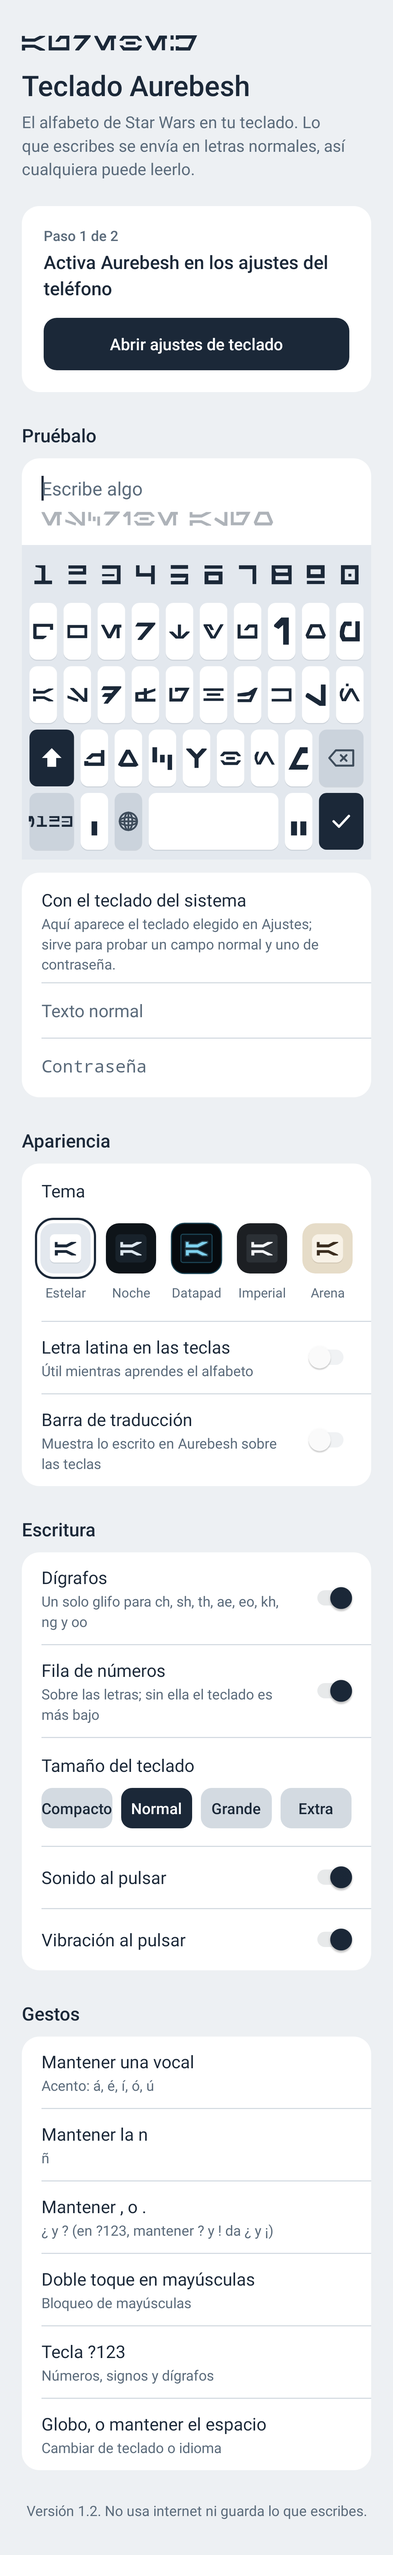
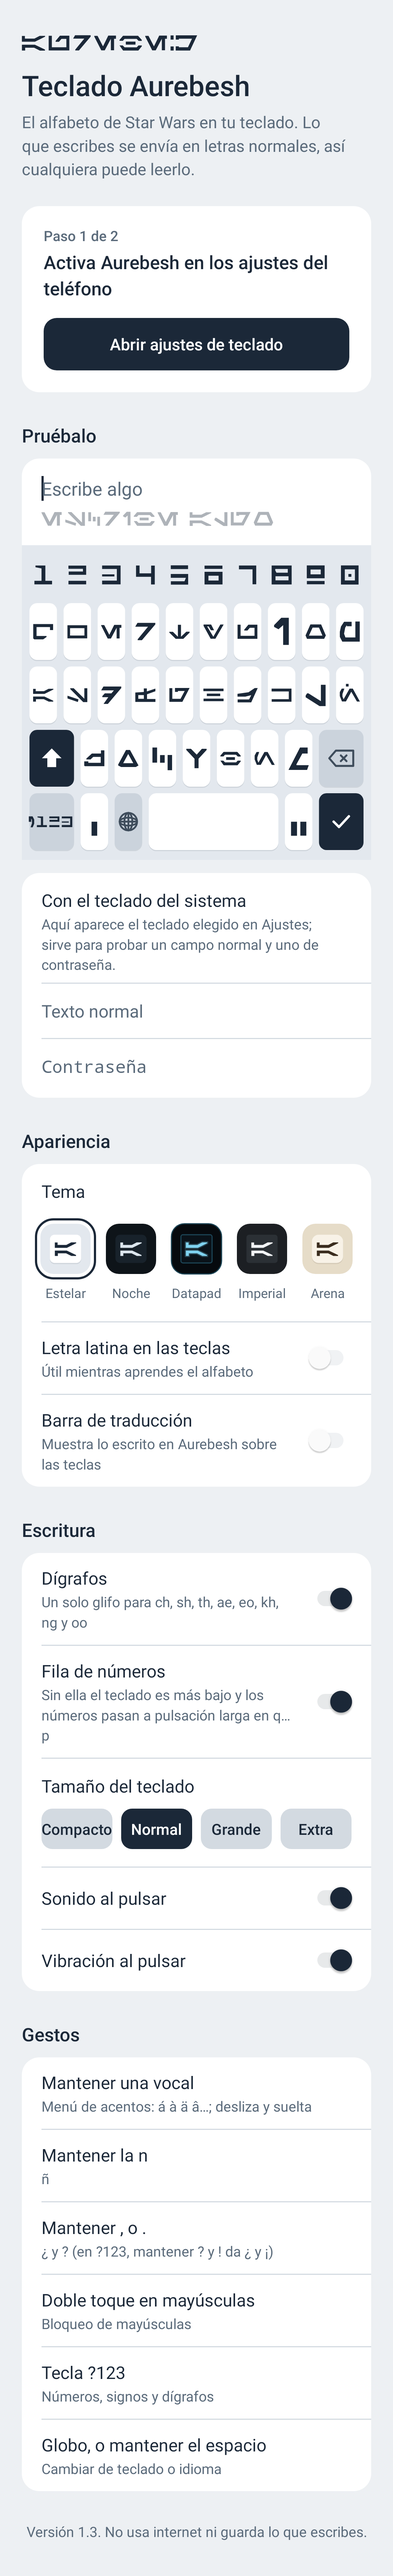
1.3: menú de alternativas deslizable y números ocultos en pulsación larga
La pulsación larga abre un menú sobre la tecla (deslizar y soltar), con
varios acentos por vocal, ñ y ç. Sin fila de números, q…p dan 1…0 y el
dígito se insinúa en la esquina de la tecla. Prueba automática del menú:
mantener q → 1; mantener e, deslizar a la segunda opción → é.

Claude-Session: https://claude.ai/code/session_0169nLUo7BxaBWms1Bxz2s9J

diff --git a/app/src/main/java/com/aurebesh/teclado/AurebeshKeyboardView.java b/app/src/main/java/com/aurebesh/teclado/AurebeshKeyboardView.java
@@ -40,15 +40,34 @@ public final class AurebeshKeyboardView extends View {
         final String output;
         final String glyph;
         final String label;
-        final String alt;
+        final String[] alts;      // alternativas por pulsacion larga; la primera es la predeterminada
         final int code;
         final float weight;
         final RectF rect = new RectF();
 
-        Key(String output, String glyph, String label, String alt, int code, float weight) {
+        Key(String output, String glyph, String label, String[] alts, int code, float weight) {
             this.output = output; this.glyph = glyph; this.label = label;
-            this.alt = alt; this.code = code; this.weight = weight;
+            this.alts = alts == null || alts.length == 0 ? null : alts; this.code = code; this.weight = weight;
         }
+
+        Key withFirstAlt(String first) {
+            String[] a = new String[(alts == null ? 0 : alts.length) + 1];
+            a[0] = first;
+            if (alts != null) System.arraycopy(alts, 0, a, 1, alts.length);
+            return new Key(output, glyph, label, a, code, weight);
+        }
+    }
+
+    /** Alternativas de cada letra (acentos y variantes); la n~ y la c con cedilla incluidas. */
+    private static final java.util.Map<String, String[]> LETTER_ALTS = new java.util.HashMap<>();
+    static {
+        LETTER_ALTS.put("a", new String[]{"\u00e1", "\u00e0", "\u00e4", "\u00e2", "\u00e3"});
+        LETTER_ALTS.put("e", new String[]{"\u00e9", "\u00e8", "\u00eb", "\u00ea"});
+        LETTER_ALTS.put("i", new String[]{"\u00ed", "\u00ec", "\u00ef", "\u00ee"});
+        LETTER_ALTS.put("o", new String[]{"\u00f3", "\u00f2", "\u00f6", "\u00f4", "\u00f5"});
+        LETTER_ALTS.put("u", new String[]{"\u00fa", "\u00f9", "\u00fc", "\u00fb"});
+        LETTER_ALTS.put("n", new String[]{"\u00f1"});
+        LETTER_ALTS.put("c", new String[]{"\u00e7"});
     }
 
     private Listener listener;
@@ -69,6 +88,13 @@ public final class AurebeshKeyboardView extends View {
     private boolean sound = true;
     private float heightScale = 1f;
     private AudioManager audio;
+
+    // Menu de alternativas abierto por pulsacion larga
+    private Key popupKey;
+    private String[] popupAlts;
+    private int popupIndex;
+    private final RectF popupRect = new RectF();
+    private float popupCell;
     private String language = "es";        // "es": con tecla n~ y , -> ?; "en": sin tecla n~ y , -> !
     private String spaceLabel;             // nombre del idioma cuando hay mas de uno activo
     private boolean previewEnabled = true;
@@ -221,12 +247,11 @@ public final class AurebeshKeyboardView extends View {
 
     // ------------------------------------------------------------------ distribucion
 
-    private static Key letter(String c, String alt) { return new Key(c, c, c, alt, CODE_TEXT, 1f); }
-    private static Key sym(String out, float w) { return sym(out, w, null); }
+    private static Key letter(String c) { return new Key(c, c, c, LETTER_ALTS.get(c), CODE_TEXT, 1f); }
 
-    /** Signo con alternativa por pulsacion larga. */
-    private static Key sym(String out, float w, String alt) {
-        return new Key(out, Glyphs.has(out) ? out : null, out, alt, CODE_TEXT, w);
+    /** Signo, con alternativas opcionales por pulsacion larga. */
+    private static Key sym(String out, float w, String... alts) {
+        return new Key(out, Glyphs.has(out) ? out : null, out, alts, CODE_TEXT, w);
     }
     private static Key special(String label, int code, float w) { return new Key(null, null, label, null, code, w); }
 
@@ -236,12 +261,9 @@ public final class AurebeshKeyboardView extends View {
         layout.add(r);
     }
 
-    private void lettersRow(List<List<Key>> layout, String chars, String alts) {
+    private void lettersRow(List<List<Key>> layout, String chars) {
         List<Key> r = new ArrayList<>();
-        for (int i = 0; i < chars.length(); i++) {
-            String a = alts.charAt(i) == '.' ? null : String.valueOf(alts.charAt(i));
-            r.add(letter(String.valueOf(chars.charAt(i)), a));
-        }
+        for (int i = 0; i < chars.length(); i++) r.add(letter(String.valueOf(chars.charAt(i))));
         layout.add(r);
     }
 
@@ -254,16 +276,17 @@ public final class AurebeshKeyboardView extends View {
 
     private void buildLayouts() {
         if (numberRow) letters.add(digitsRow());
-        lettersRow(letters, "qwertyuiop", "..é...úíó.");
-        lettersRow(letters, "asdfghjkl", "á........");
+        lettersRow(letters, "qwertyuiop");
+        if (!numberRow) {                         // sin fila de numeros: q..p dan 1..0 en pulsacion larga
+            List<Key> top = letters.get(0);
+            for (int i = 0; i < 10 && i < top.size(); i++) top.set(i, top.get(i).withFirstAlt(String.valueOf((i + 1) % 10)));
+        }
+        lettersRow(letters, "asdfghjkl");
         if ("es".equals(language)) letters.get(letters.size() - 1).add(new Key("ñ", "ñ", "ñ", null, CODE_TEXT, 1f));
         List<Key> r3 = new ArrayList<>();
         r3.add(special("", CODE_SHIFT, 1.5f));
         String z = "zxcvbnm";
-        for (int i = 0; i < z.length(); i++) {
-            String c = String.valueOf(z.charAt(i));
-            r3.add(letter(c, c.equals("n") ? "ñ" : null));
-        }
+        for (int i = 0; i < z.length(); i++) r3.add(letter(String.valueOf(z.charAt(i))));
         r3.add(special("", CODE_DELETE, 1.5f));
         letters.add(r3);
         bottomRow(letters, "?123");
@@ -376,8 +399,9 @@ public final class AurebeshKeyboardView extends View {
         }
         for (int i = 0; i < pressed.size(); i++) {
             Key k = pressed.valueAt(i);
-            if (previewEnabled && k != null && k.code == CODE_TEXT) drawPreview(c, k);
+            if (previewEnabled && k != null && k.code == CODE_TEXT && k != popupKey) drawPreview(c, k);
         }
+        if (popupKey != null) drawPopup(c);
     }
 
     private void drawKeyFace(Canvas c, Key k, RectF r, boolean digitRow) {
@@ -400,9 +424,13 @@ public final class AurebeshKeyboardView extends View {
                     textPaint.setTextSize(19 * dp);
                     c.drawText(k.label, cx, cy + 7 * dp, textPaint);
                 }
-                if (showHints && k.alt != null && !digitRow) {  // alternativa por pulsacion larga (solo con pistas)
-                    hintPaint.setTextSize(9 * sp);
-                    c.drawText(k.alt, r.right - 4 * dp, r.top + 10 * dp, hintPaint);
+                if (k.alts != null && !digitRow) {
+                    String first = k.alts[0];
+                    boolean digit = first.length() == 1 && Character.isDigit(first.charAt(0));
+                    if (showHints || digit) {                    // los numeros ocultos siempre se insinuan
+                        hintPaint.setTextSize(9 * sp);
+                        c.drawText(first, r.right - 4 * dp, r.top + 10 * dp, hintPaint);
+                    }
                 }
                 break;
             case CODE_MODE:
@@ -522,6 +550,75 @@ public final class AurebeshKeyboardView extends View {
         }
     }
 
+    /** Menu de alternativas sobre la tecla mantenida; la opcion bajo el dedo va resaltada. */
+    private void drawPopup(Canvas c) {
+        float r = 10 * dp;
+        fill.setColor(0x40000000);
+        c.drawRoundRect(popupRect.left, popupRect.top + 3 * dp, popupRect.right, popupRect.bottom + 3 * dp, r, r, fill);
+        fill.setColor(theme.preview);
+        c.drawRoundRect(popupRect, r, r, fill);
+        if (theme.keyStroke != 0) c.drawRoundRect(popupRect, r, r, strokePaint);
+        for (int i = 0; i < popupAlts.length; i++) {
+            float left = popupRect.left + i * popupCell;
+            float cx = left + popupCell / 2f, cy = popupRect.centerY();
+            boolean sel = i == popupIndex;
+            if (sel) {
+                tmp.set(left + 3 * dp, popupRect.top + 3 * dp, left + popupCell - 3 * dp, popupRect.bottom - 3 * dp);
+                fill.setColor(theme.accent);
+                c.drawRoundRect(tmp, 8 * dp, 8 * dp, fill);
+            }
+            String a = popupAlts[i];
+            String shown = shiftActive() && current == letters ? a.toUpperCase() : a;
+            if (Glyphs.has(a)) {
+                glyphPaint.setColor(sel ? theme.onAccent : theme.previewText);
+                Glyphs.drawCentered(c, a, cx, cy - 6 * dp, popupRect.height() * 0.42f, popupCell * 0.7f, glyphPaint);
+                glyphPaint.setColor(theme.glyph);
+                textPaint.setColor(sel ? theme.onAccent : theme.previewLatin);
+                textPaint.setTextSize(10 * sp);
+                c.drawText(shown, cx, popupRect.bottom - 7 * dp, textPaint);
+            } else {
+                textPaint.setColor(sel ? theme.onAccent : theme.previewText);
+                textPaint.setTextSize(22 * dp);
+                c.drawText(shown, cx, cy + 8 * dp, textPaint);
+            }
+            textPaint.setColor(theme.glyph);
+        }
+    }
+
+    private void openPopup(Key k) {
+        popupKey = k;
+        popupAlts = k.alts;
+        popupIndex = 0;
+        popupCell = Math.max(k.rect.width(), 46 * dp);
+        float h = 64 * dp;
+        float total = popupCell * popupAlts.length;
+        float left = k.rect.centerX() - popupCell / 2f;              // la primera opcion, sobre la tecla
+        left = Math.max(2 * dp, Math.min(getWidth() - total - 2 * dp, left));
+        popupRect.set(left, Math.max(0, k.rect.top - h - 2 * dp), left + total, Math.max(0, k.rect.top - h - 2 * dp) + h);
+        invalidate();
+    }
+
+    private void commitPopup() {
+        if (popupKey == null) return;
+        String out = popupAlts[popupIndex];
+        if (shiftActive() && current == letters) out = out.toUpperCase();
+        if (listener != null) listener.onText(out);
+        if (shift && !capsLock) { shift = false; autoShifted = false; }
+        closePopup();
+    }
+
+    private void closePopup() {
+        popupKey = null;
+        popupAlts = null;
+    }
+
+    /** Celda i del menu abierto (para pruebas). */
+    RectF popupCellRect(int i) {
+        if (popupKey == null) return null;
+        float left = popupRect.left + i * popupCell;
+        return new RectF(left, popupRect.top, left + popupCell, popupRect.bottom);
+    }
+
     private void drawPreview(Canvas c, Key k) {
         float w = Math.max(k.rect.width() * 1.3f, 56 * dp);
         float h = 74 * dp;
@@ -596,7 +693,8 @@ public final class AurebeshKeyboardView extends View {
             case MotionEvent.ACTION_POINTER_DOWN: {
                 for (int i = pressed.size() - 1; i >= 0; i--) {
                     Key prev = pressed.valueAt(i);
-                    if (prev != null && prev.code != CODE_DELETE && !(prev == longPressKey && longPressFired)) release(prev);
+                    if (prev != null && prev == popupKey) commitPopup();
+                    else if (prev != null && prev.code != CODE_DELETE && !(prev == longPressKey && longPressFired)) release(prev);
                     pressed.removeAt(i);
                 }
                 cancelTimers();
@@ -618,7 +716,14 @@ public final class AurebeshKeyboardView extends View {
                 for (int i = 0; i < e.getPointerCount(); i++) {
                     int pid = e.getPointerId(i);
                     Key old = pressed.get(pid);
-                    if (old == null || old.code == CODE_DELETE || old.code == CODE_SPACE) continue;
+                    if (old == null) continue;
+                    if (popupKey != null && old == popupKey) {       // deslizar por el menu
+                        int ni = (int) Math.floor((e.getX(i) - popupRect.left) / popupCell);
+                        ni = Math.max(0, Math.min(popupAlts.length - 1, ni));
+                        if (ni != popupIndex) { popupIndex = ni; invalidate(); }
+                        continue;
+                    }
+                    if (old.code == CODE_DELETE || old.code == CODE_SPACE) continue;
                     Key k = findKey(e.getX(i), e.getY(i));
                     if (k != null && k != old && !longPressFired) {
                         pressed.put(pid, k);
@@ -632,6 +737,12 @@ public final class AurebeshKeyboardView extends View {
             case MotionEvent.ACTION_POINTER_UP: {
                 Key k = pressed.get(id);
                 pressed.remove(id);
+                if (k != null && k == popupKey) {
+                    commitPopup();
+                    cancelTimers();
+                    invalidate();
+                    return true;
+                }
                 boolean consumed = k != null && k == longPressKey && longPressFired;
                 cancelTimers();
                 if (k != null && !consumed && k.code != CODE_DELETE) release(k);
@@ -640,6 +751,7 @@ public final class AurebeshKeyboardView extends View {
             }
             case MotionEvent.ACTION_CANCEL:
                 pressed.clear();
+                closePopup();
                 cancelTimers();
                 invalidate();
                 return true;
@@ -686,11 +798,10 @@ public final class AurebeshKeyboardView extends View {
                 longPressFired = true;
                 feedback(k);
                 listener.onSwitchKeyboard();
-            } else if (k.code == CODE_TEXT && k.alt != null) {
+            } else if (k.code == CODE_TEXT && k.alts != null) {
                 longPressFired = true;
                 feedback(k);
-                listener.onText(shiftActive() ? k.alt.toUpperCase() : k.alt);
-                if (shift && !capsLock) { shift = false; autoShifted = false; }
+                openPopup(k);
             }
             invalidate();
         }
@@ -740,6 +851,7 @@ public final class AurebeshKeyboardView extends View {
     protected void onDetachedFromWindow() {
         super.onDetachedFromWindow();
         cancelTimers();
+        closePopup();
         pressed.clear();
     }
 }

diff --git a/screenshot-test/src/test/java/com/aurebesh/teclado/ScreenshotTest.java b/screenshot-test/src/test/java/com/aurebesh/teclado/ScreenshotTest.java
@@ -13,6 +13,7 @@ import org.robolectric.RobolectricTestRunner;
 import org.robolectric.RuntimeEnvironment;
 import org.robolectric.annotation.Config;
 import org.robolectric.annotation.GraphicsMode;
+import org.robolectric.shadows.ShadowLooper;
 
 import java.io.File;
 import java.io.FileOutputStream;
@@ -111,6 +112,27 @@ public class ScreenshotTest {
         kb.applyPrefs(false, false, false, true, Themes.ESTELAR.id, false);
         save(render(kb), "sin_fila_numeros.png");
         kb.applyPrefs(false, false, false, true, Themes.ESTELAR.id, true);
+
+        // Menu de alternativas: sin fila de numeros, mantener "q" da 1 y mantener "e" ofrece 3 y acentos
+        kb.applyPrefs(false, false, false, true, Themes.ESTELAR.id, false, false, 1f);
+        render(kb);
+        typed.setLength(0);
+        AurebeshKeyboardView.Key q = kb.keyFor("q");
+        down(kb, q.rect.centerX(), q.rect.centerY());
+        ShadowLooper.shadowMainLooper().idleFor(java.time.Duration.ofMillis(450));
+        save(render(kb), "alternativas_q.png");
+        up(kb, q.rect.centerX(), q.rect.centerY());
+        AurebeshKeyboardView.Key e = kb.keyFor("e");
+        down(kb, e.rect.centerX(), e.rect.centerY());
+        ShadowLooper.shadowMainLooper().idleFor(java.time.Duration.ofMillis(450));
+        android.graphics.RectF second = kb.popupCellRect(1);
+        long t = SystemClock.uptimeMillis();
+        kb.onTouchEvent(MotionEvent.obtain(t, t, MotionEvent.ACTION_MOVE, second.centerX(), second.centerY(), 0));
+        save(render(kb), "alternativas_e.png");
+        up(kb, second.centerX(), second.centerY());
+        System.out.println("ALTS=" + typed);
+        if (!typed.toString().equals("1é")) throw new AssertionError("alternativas: " + typed);
+        typed.setLength(0);
 
         // Tamanos compacto y extra; barra con signos de apertura
         kb.applyPrefs(false, false, false, true, Themes.ESTELAR.id, true, false, 0.85f);

diff --git a/README.md b/README.md
@@ -14,8 +14,10 @@ así cualquiera puede leer lo que escribes.
 3. Para volver al teclado de Samsung toca el globo (o mantén pulsado el espacio).
 
 ## Funciones del teclado
-- QWERTY con ñ y fila de numerales Aurebesh (desactivable). Pulsación larga en vocales = acento; en n = ñ;
-  en `,` y `.` = `¿` y `?`; en `?123`, `?` y `!` dan `¿` y `¡`, y los signos tienen alternativas (`_ « » [ ] \ ~ € |`).
+- QWERTY con ñ y fila de numerales Aurebesh (desactivable; sin ella, q…p dan 1…0 en pulsación larga, con el
+  número insinuado en la esquina). Pulsación larga = **menú de alternativas** deslizable, como en Gboard:
+  vocales → á à ä â ã…, n → ñ, c → ç, `,`/`.` → `¿`/`?`; en `?123`, `?` y `!` dan `¿` y `¡` y los signos
+  tienen alternativas (`_ « » [ ] \ ~ € |`).
 - Mayúscula automática al inicio de frase; doble toque en ⇧ = bloqueo.
 - `?123`: signos con glifo propio, dígrafos Aurebesh (ch, ae, eo, kh, ng, oo, sh, th) y símbolos latinos.
 - Burbuja al pulsar con el glifo grande y la letra latina (para aprender el alfabeto).
